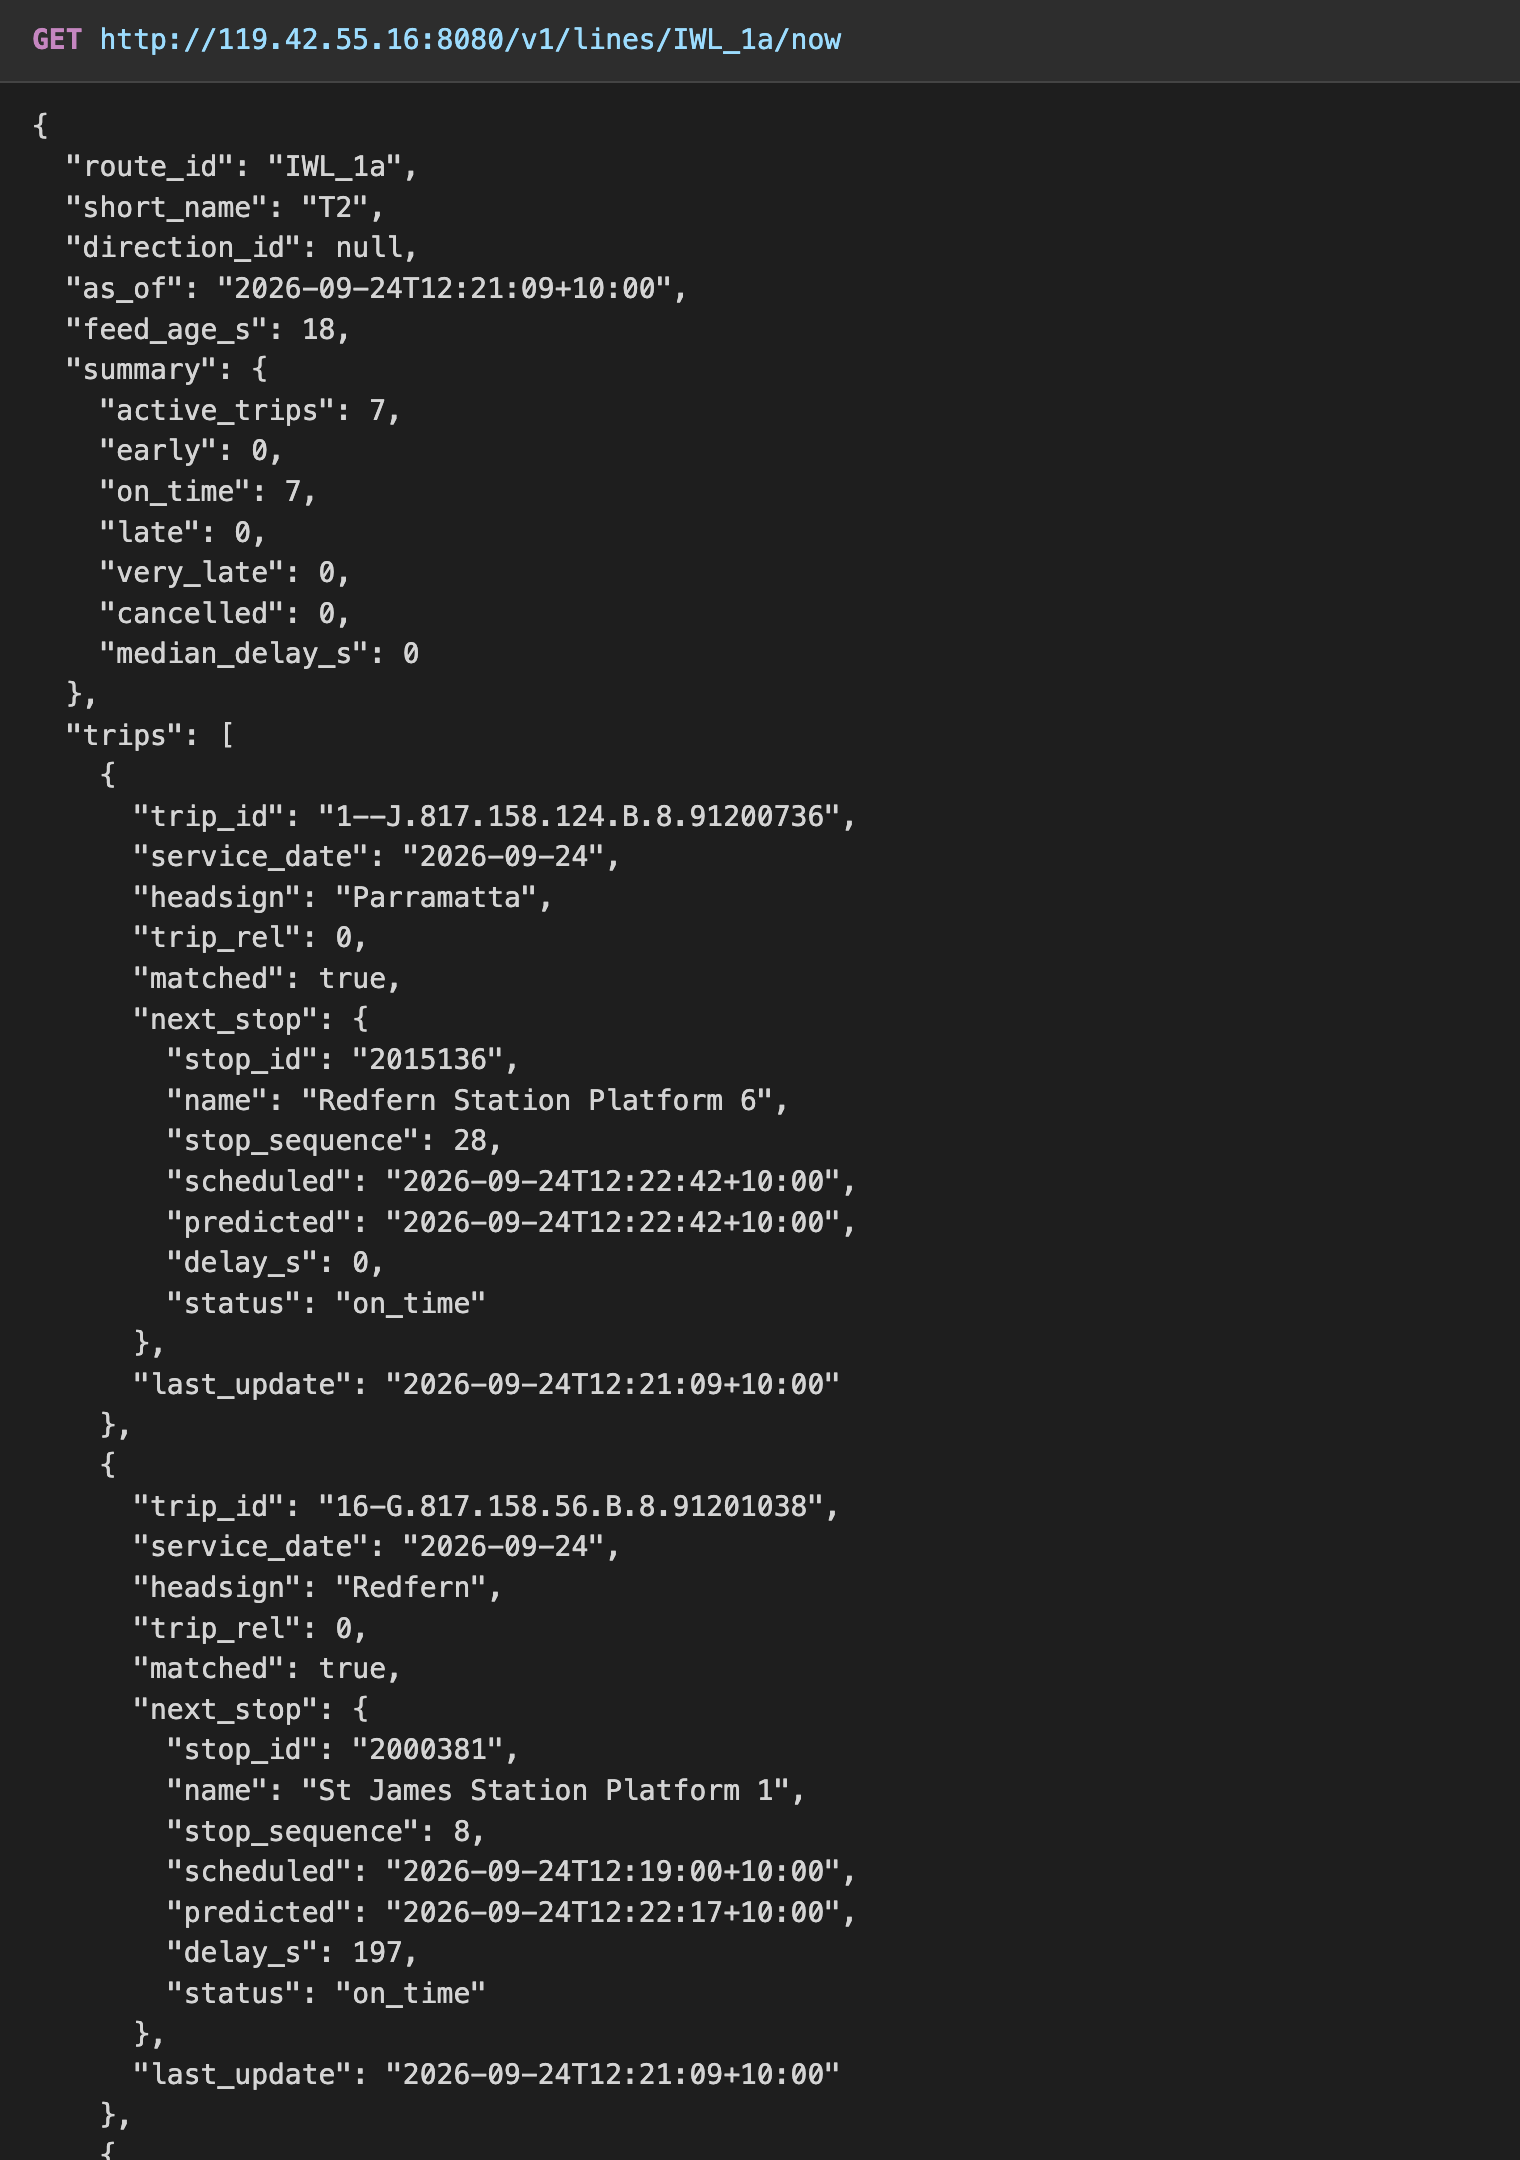
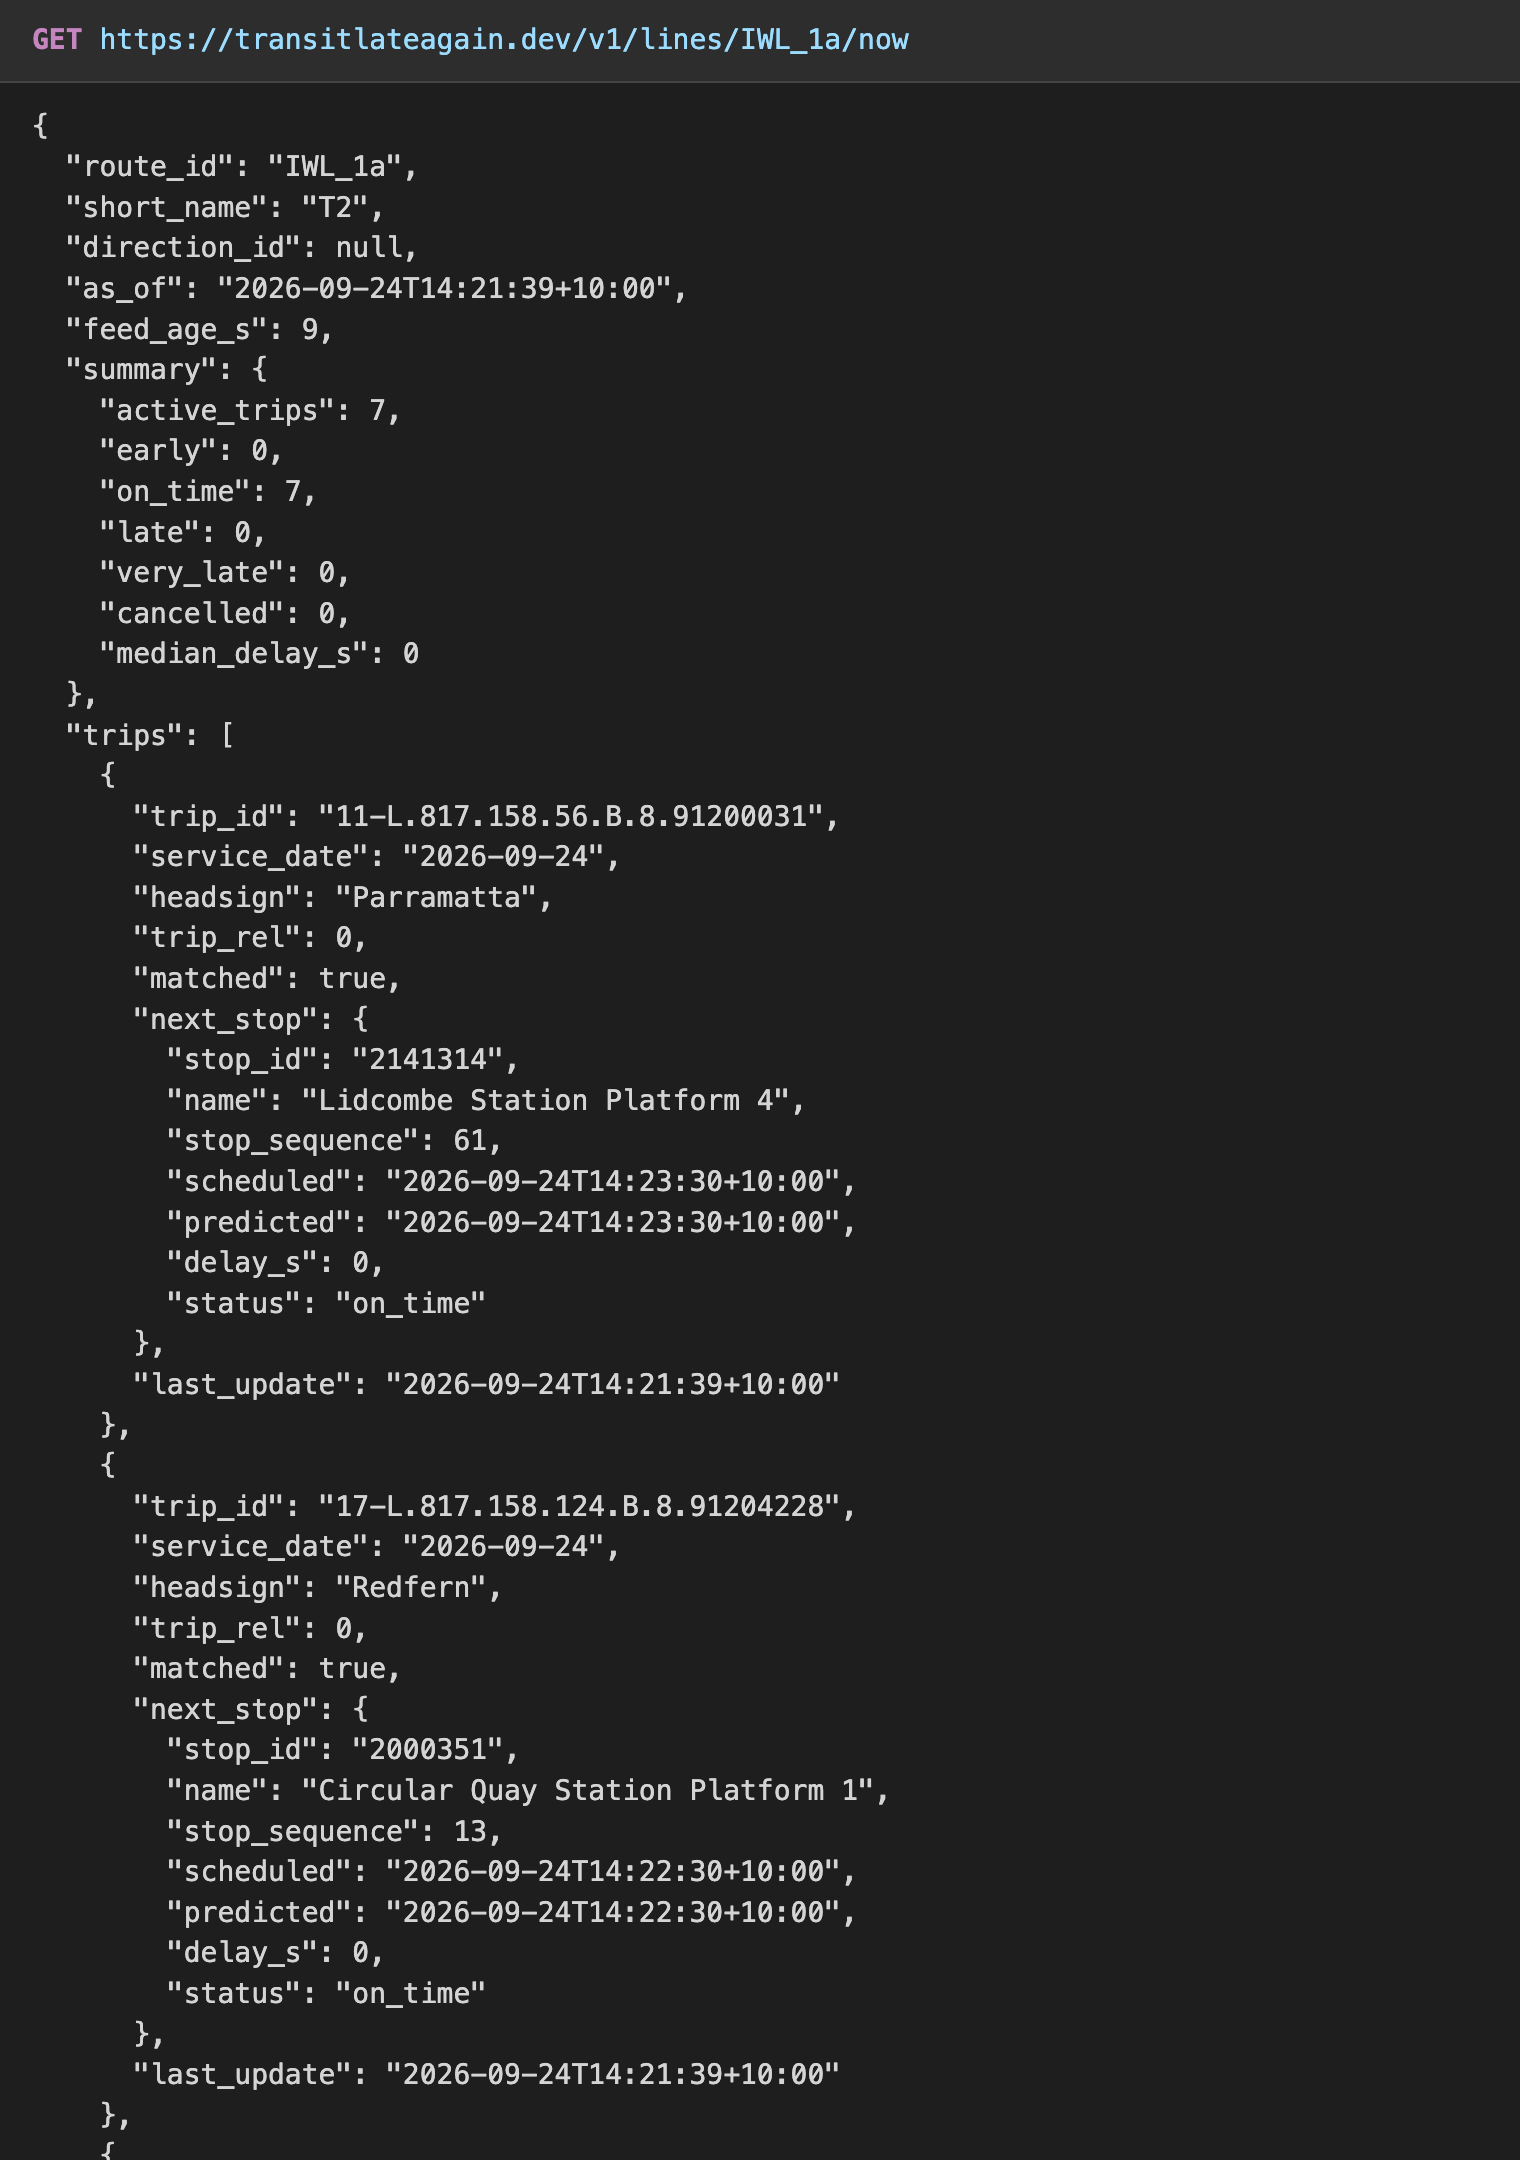
docs(deploy): transitlateagain.dev live through Cloudflare, metrics in Grafana
https://transitlateagain.dev answers through Cloudflare's SYD edge in Full
(strict), with the origin certificate on the VM and only Cloudflare's
ranges admitted to the port; the raw IP no longer answers from outside.
The access log shows Cloudflare as remote and the visitor as client_ip,
and 25 concurrent requests from one visitor gave 11 × 200 and 14 × 429.
Alloy pushed 3,755 samples in its first minutes, 0 failed, at 79 MB.

The first symptom was a 522 with no connection reaching the VM: adding the
site to Cloudflare had imported Namecheap's parking A record. Recorded in
vm-bootstrap.md §6, with every command. README link and screenshot now use
the domain; Stage 4's /metrics and domain boxes are ticked.

diff --git a/deploy/vm-bootstrap.md b/deploy/vm-bootstrap.md
@@ -90,6 +90,10 @@ HTTP_RATE_LIMIT_RPS=10
 EOF
 ```
 
+Grafana Cloud's remote-write details are appended the same way (step 6). The
+token needs the **metrics:write** scope: one generated from the Prometheus
+page's read side answers remote write with `401 invalid scope requested`.
+
 `DATABASE_URL` is deliberately absent: Compose builds it from
 `POSTGRES_PASSWORD`. Everything else takes the §8 defaults.
 `HTTP_RATE_LIMIT_RPS=10` was added after the first deploy: a history query
@@ -98,21 +102,69 @@ saturate it, and a person needs one or two a second.
 
 ## 5. Start
 
+Every Compose command on the VM layers `deploy/docker-compose.vm.yml`, which
+adds port 443, the origin certificate, the client-IP header and Alloy:
+
 ```sh
 cd /opt/transitlateagain
-docker compose --env-file .env -f deploy/docker-compose.yml up -d --build
+docker compose --env-file .env -f deploy/docker-compose.yml -f deploy/docker-compose.vm.yml up -d --build
 ```
 
-## 6. Per-IP connection limits
+## 6. Cloudflare, TLS and Grafana (2026-09-24)
 
-`deploy/firewall.sh` puts a connection cap and a new-connection rate on port
-8080 in Docker's `DOCKER-USER` chain (the script says why ufw cannot), run at
-every boot after Docker:
+`transitlateagain.dev` is registered at Namecheap with its nameservers set to
+Cloudflare (free plan). Cloudflare proxies it to the VM in **Full (strict)**
+mode.
+
+**DNS.** One proxied `A` record, `@` → `119.42.55.16`. Adding the site to
+Cloudflare imported Namecheap's parking records — an `A` to `192.64.119.71`
+and a `www` CNAME to `parkingpage.namecheap.com` — and the first symptom was a
+522 with no connection ever reaching the VM. The `A` was corrected and `www`
+deleted. The MX and TXT records are Namecheap email forwarding, left alone.
+
+**Origin certificate.** The key is generated on the VM, so it never leaves it;
+the CSR goes to Cloudflare (SSL/TLS → Origin Server → "Use my private key and
+CSR", 15 years), and the certificate it returns is public:
+
+```sh
+install -d -m 0755 /opt/transitlateagain-tls && cd /opt/transitlateagain-tls
+openssl ecparam -genkey -name prime256v1 -noout -out origin.key
+openssl req -new -key origin.key -out origin.csr -subj "/CN=transitlateagain.dev" \
+  -addext "subjectAltName=DNS:transitlateagain.dev,DNS:*.transitlateagain.dev"
+chown 65532:65532 origin.key && chmod 0400 origin.key   # the image's nonroot user
+cat origin.csr                                             # paste into Cloudflare
+cat > origin.pem                                           # paste the certificate, Ctrl-D
+chmod 0444 origin.pem
+[ "$(openssl x509 -in origin.pem -noout -pubkey)" = "$(openssl pkey -in origin.key -pubout)" ] && echo match
+```
+
+It expires on 2041-09-20.
+
+**Grafana Cloud.** Alloy (in `docker-compose.vm.yml`) needs three lines in
+`.env`:
+
+```sh
+cat >> /opt/transitlateagain/.env   # then paste, Ctrl-D
+GRAFANA_REMOTE_WRITE_URL=https://prometheus-prod-41-prod-au-southeast-1.grafana.net/api/prom/push
+GRAFANA_USERNAME=3608752
+GRAFANA_TOKEN=glc_...
+```
+
+Alloy's own counters are the delivery check; its image has no curl:
+
+```sh
+docker exec transitlateagain-alloy-1 bash -c 'exec 3<>/dev/tcp/127.0.0.1/12345;
+  printf "GET /metrics HTTP/1.0\r\n\r\n" >&3; cat <&3' | grep -E '^prometheus_remote_storage_samples_(total|failed_total)'
+```
+
+**Only Cloudflare reaches the API port.** `deploy/firewall.sh` allowlists
+Cloudflare's IPv4 ranges on the container port in Docker's `DOCKER-USER`
+chain (the script says why ufw cannot), run at every boot after Docker:
 
 ```sh
 cat > /etc/systemd/system/transitlateagain-firewall.service <<'UNIT'
 [Unit]
-Description=Transit Late Again per-IP limits on the API port
+Description=Transit Late Again: only Cloudflare may reach the API port
 Requires=docker.service
 After=docker.service
 
@@ -125,13 +177,23 @@ ExecStart=/bin/sh /opt/transitlateagain/deploy/firewall.sh
 WantedBy=multi-user.target
 UNIT
 systemctl daemon-reload && systemctl enable --now transitlateagain-firewall
-iptables -L TRANSITLATEAGAIN-LIMIT -v -n
+iptables -L TRANSITLATEAGAIN-CF -v -n
 ```
 
-Measured from a laptop on 2026-09-24: of 120 new connections opened 60 at a
-time, the `DROP` rule took 33, and the next request went straight through. 25
-concurrent `/v1/lines` requests gave 10 × 200, 10 × 429 from the application
-limit and 5 dropped.
+It replaced a first version that capped connections per source IP, which
+behind Cloudflare would have throttled Cloudflare's own addresses:
+
+```sh
+iptables -D DOCKER-USER -i eth0 -p tcp --dport 8080 -j TRANSITLATEAGAIN-LIMIT
+iptables -F TRANSITLATEAGAIN-LIMIT && iptables -X TRANSITLATEAGAIN-LIMIT
+```
+
+Checked on 2026-09-24: `https://transitlateagain.dev/readyz` 200 through
+Cloudflare's SYD edge; `https://119.42.55.16` and `http://119.42.55.16:8080`
+time out from outside; the access log shows Cloudflare as `remote` and the
+real client as `client_ip`; 25 concurrent requests from one client through
+Cloudflare gave 11 × 200 and 14 × 429. Memory: service 230 MB, Postgres 142
+MB, Alloy 79 MB, 232 MB available.
 
 ## 7. The rename (2026-09-24, from `headway`)
 
@@ -159,7 +221,7 @@ Checked afterwards: 143,231 observations with the earliest still at 11:53
 
 ```sh
 cd /opt/transitlateagain && git pull
-docker compose --env-file .env -f deploy/docker-compose.yml up -d --build
+docker compose --env-file .env -f deploy/docker-compose.yml -f deploy/docker-compose.vm.yml up -d --build
 ```
 
 Compose's `stop_grace_period: 45s` lets the old container flush its final batch

diff --git a/HANDOFF.md b/HANDOFF.md
@@ -21,7 +21,7 @@ terminator line (`EOF`) ends early — pick a terminator the body cannot contain
 
 | Stage | State |
 |---|---|
-| 1 — MVP | **Complete.** Live at `http://119.42.55.16:8080` since 2026-09-24 11:53. |
+| 1 — MVP | **Complete.** Live at `https://transitlateagain.dev` since 2026-09-24 11:53. |
 | 2 — Matching, history, CI | **Complete.** |
 | 3 — All modes, scale, load test | Complete except **storage over a full day** (below). |
 | 4 — Observability, front end | Not started. Decisions waiting on the user (below). |
@@ -50,33 +50,29 @@ run is in `deploy/vm-bootstrap.md`; update with `git pull` and `docker compose
    day is the `observations_2026_09_25` partition. It is complete early on
    2026-09-26 and its last hour rolls up about 3 h later, so measure on the
    afternoon of **2026-09-26** with the SQL at the end of `docs/storage.md`
-   (run it through `docker compose exec postgres psql -U headway`). Fill in
+   (run it through `docker compose --env-file .env -f deploy/docker-compose.yml -f deploy/docker-compose.vm.yml exec postgres psql -U headway`). Fill in
    `docs/storage.md` and the two "baseline TBD" rows of §13.
 2. **Parramatta light rail** (`lightrail-parramatta`) has published an empty
    feed all day on 2026-09-24 — a 15-byte header, no entities (one raw fetch).
    Polls succeed, so nothing is wrong on our side. If it is still empty after a
    few days, record it in §9.1.
 
-## Stage 4: decided, in progress
+## Stage 4
 
-1. **`/metrics` is live** (`117e553`) on the admin port only: every §10.3
-   metric, 22 families visible on the first scrape (the other five appear on
-   their first event). Read it with
-   `ssh root@119.42.55.16 curl -s localhost:8081/metrics`. Memory unchanged
-   (236 MB service). The first scrape exposed the schedule 502 bug below.
-2. **Grafana Cloud:** the user is creating the account. Plan: Grafana Alloy on
-   the VM pushing out, so `/metrics` stays private. Measure Alloy's memory
-   first (~220 MB free). The Grafana token is a secret: it goes into a file on
-   the VM, never into the chat.
-3. **Domain bought: `transitlateagain.dev`.** `.dev` is HTTPS-only in every
-   browser (HSTS preload), so it shows nothing until TLS works. Plan:
-   Cloudflare free plan in front (TLS plus flood protection). The origin side
-   still to do: publish on a port Cloudflare proxies, lock 8080/80 to
-   Cloudflare's ranges in `DOCKER-USER`, and key the rate limiter on
-   `CF-Connecting-IP`, trusted only from Cloudflare addresses.
-4. **Renamed** from Headway to Transit Late Again (`b7b1059`); GitHub repo is
-   `zigzaggoose/transitlateagain`. Postgres role/database and the volume
-   (`headway_pgdata`) keep the old name on purpose (§15).
+- **Done:** `/metrics` (admin port only) and Grafana Cloud via Alloy on the
+  VM; `https://transitlateagain.dev` through Cloudflare in Full (strict), with
+  only Cloudflare's ranges admitted to the API port. `vm-bootstrap.md` §6 has
+  every step.
+- **Next:** one dashboard (ingest rate, freshness p95, match rate, queue
+  length, partitions, API p95), then the `IngestStopped` alert with a
+  `docs/runbook.md` entry, then `web/`. The dashboard and alert are built in
+  the Grafana UI by the user; the queries are §10.3/§10.4.
+- **Every VM Compose command needs both files:**
+  `docker compose --env-file .env -f deploy/docker-compose.yml -f deploy/docker-compose.vm.yml ...`
+- **Secrets pasted into this session's transcript:** a read-only Grafana token
+  (delete it in Grafana → Access Policies) and the Alloy write token now in
+  use (rotate if the transcript is shared). The origin key never left the VM.
+- `/v1/admin/stats` and `/metrics`: `ssh root@119.42.55.16 curl -s localhost:8081/...`
 
 ## Found and fixed this session
 

diff --git a/PROJECT.md b/PROJECT.md
@@ -1534,11 +1534,11 @@ Each stage ends in something that runs and can be demonstrated. **Stage 2 is the
 ### Stage 4 — Observability and front end
 
 - [x] `internal/metrics/metrics.go` with every metric in §10.3. 2026-09-24; a test scrapes the registry for all 27 names. The package is `metrics`, not `obs`: `obs` is this codebase's name for a slice of observations (§15).
-- [ ] `/metrics` endpoint; Grafana Cloud free tier scraping it.
+- [x] `/metrics` endpoint; Grafana Cloud free tier scraping it. 2026-09-24: Alloy on the VM pushes rather than Grafana scraping, so `/metrics` stays private (§15); 3,755 samples sent in the first minutes, 0 failed.
 - [ ] One dashboard: ingest rate, freshness p95, match rate, queue length, partition count, API p95.
 - [ ] One alert wired end to end — `TransitLateAgainIngestStopped` — with a `docs/runbook.md` entry.
 - [ ] `web/`: Next.js, one page, a line selector and a stop history chart hitting the live API.
-- [ ] Optional: custom domain and TLS via Caddy in Compose.
+- [x] Optional: custom domain and TLS via Caddy in Compose. 2026-09-24: `https://transitlateagain.dev`, TLS by Cloudflare (Full (strict), origin certificate on the VM) rather than Caddy, and only Cloudflare can reach the port (§15).
 - **Demo:** "here is the dashboard, and here is what happens when I stop the container."
 
 ---

diff --git a/README.md b/README.md
@@ -21,10 +21,11 @@ hourly and served. Buses are left off: they would not fit the 1 GB VM
 
 **Live since 2026-09-24** on a BinaryLane VM in Sydney
 (`deploy/vm-bootstrap.md`):
-[`/v1/lines/IWL_1a/now`](http://119.42.55.16:8080/v1/lines/IWL_1a/now) is
-what the T2 is doing right now.
+[`transitlateagain.dev/v1/lines/IWL_1a/now`](https://transitlateagain.dev/v1/lines/IWL_1a/now)
+is what the T2 is doing right now. Cloudflare sits in front; metrics go to
+Grafana Cloud.
 
-![The live /v1/lines/IWL_1a/now response for the T2 at 12:21 on 2026-09-24](docs/img/now.png)
+![The live /v1/lines/IWL_1a/now response for the T2 at 14:21 on 2026-09-24](docs/img/now.png)
 
 ## How it works
 
@@ -90,8 +91,8 @@ curl "localhost:8080/v1/lines/APS_1a/history?from=2026-09-20&bucket=day"
 curl localhost:8080/readyz
 ```
 
-Swap `localhost:8080` for `119.42.55.16:8080` to ask the live service. It
-allows 10 requests a second per client. `/v1/admin/stats` is not on the
+Swap `localhost:8080` for `https://transitlateagain.dev` to ask the live
+service. It allows 10 requests a second per client. `/v1/admin/stats` is not on the
 public port; it listens on `ADMIN_ADDR`, which the VM keeps on loopback.
 
 Route and stop ids are TfNSW's own (`APS_1a` is one T8 pattern; `2020102` is
